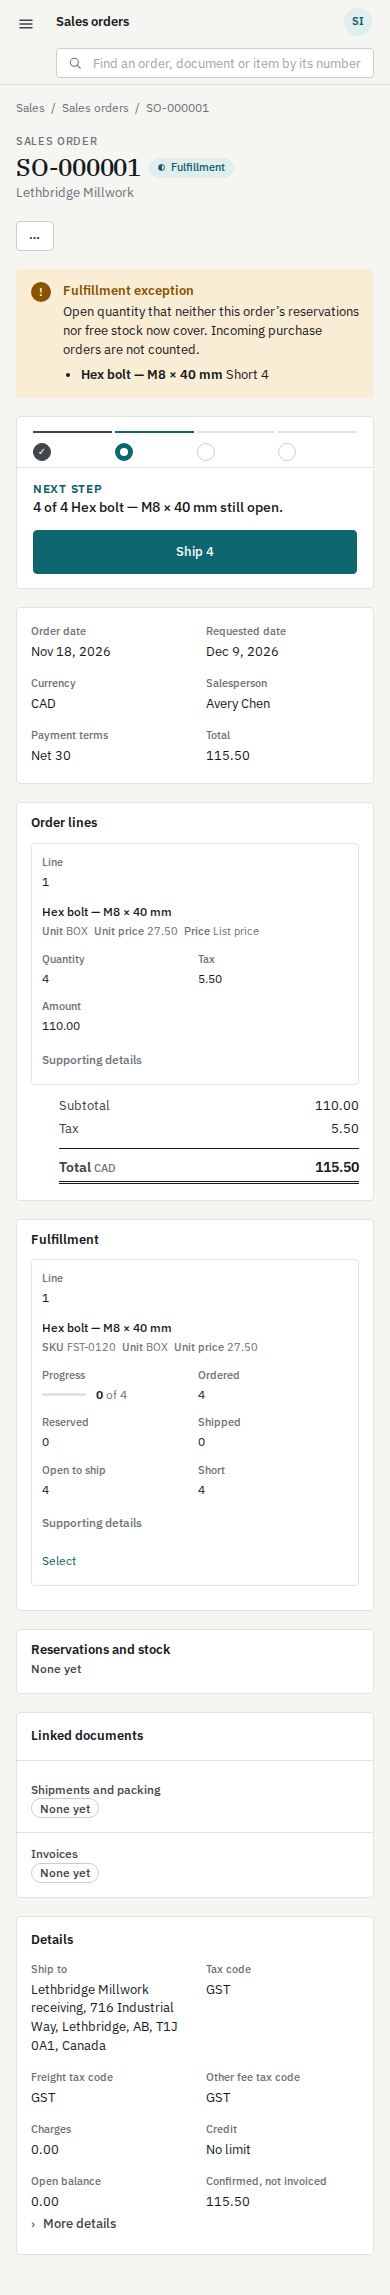
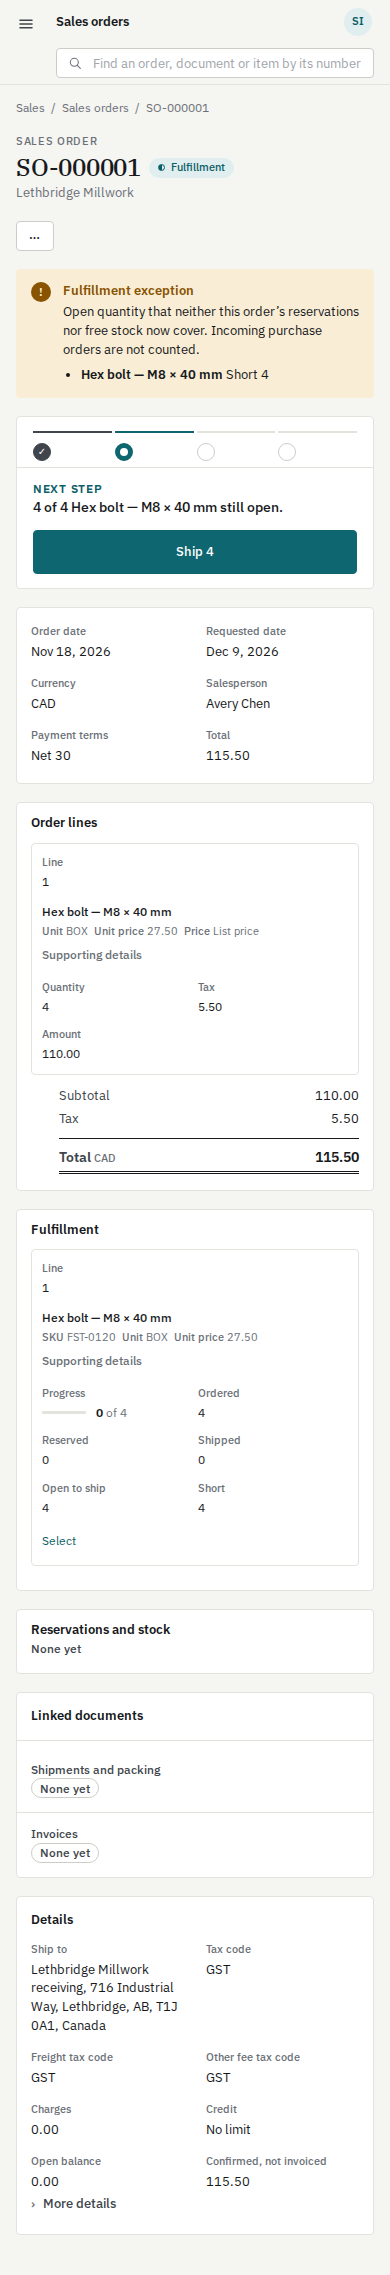
docs(execution): LOOK-1 round 4 integrated — record, ledger and review-log rows, evidence
Round 4 merged at b83f1773 (packet tip bfd95051); 28 app screenshots
re-shot from that run's look-evidence artifact (the phone Receive shot is
full height); the 28 mockup shots are unchanged.

Packet: LOOK-1

diff --git a/docs/execution/packets/LOOK-1.md b/docs/execution/packets/LOOK-1.md
@@ -1,32 +1,33 @@
 # LOOK-1 — every screen in the Ledger look the owner chose
 
-Status: round 3 frozen at `bfae71f0` (CI green, run 44325476363). Mechanical (no Critical path). Round 3 answers Fable
-review 1 (`2rain-missions/look-1-fable-review-1.md`), merged in groups: (a) `fb3f95ee`, (b) `eed94293`, (c)–(e) together
-(ruled: they share render files; the deviation from one merge per group is accepted). Earlier rounds: round 2 `d0d3baf7`,
-round 1 `5d07856a` (their records: this file at `c3ab7ab1` and `51b99470`). Claim base: main `1156974b`, merged in.
+Status: round 4 frozen at `bfd95051` (CI green, run 44342652700). Mechanical (no Critical path). Round 4 answers Fable
+review 2 (`2rain-missions/look-1-fable-review-2.md`): one blocker, three majors, the cheap leftovers. Round 3 (Fable
+review 1) merged in groups (a) `fb3f95ee`, (b) `eed94293`, (c)–(e) `e7a284f4` (one merge, ruled); its record is this
+file at `b6098500`. Earlier: round 2 `d0d3baf7`, round 1 `5d07856a`. Claim base: main `f76da787`, merged in.
 
-## Round 3 claims
+## Round 4 claims
 
-1. (a) Chrome: the top bar is the search and an initials avatar whose menu holds the principal, the demo's person
-   switch and Diagnostics; the sidebar's head is the page's company (the same Company links); queues and areas scroll
-   between a fixed head and a foot naming the person and role; one Settings disclosure holds the groups' occasional
-   destinations; a record's identity and revision live in its "…" or Record actions menu. Queue counts on every page
-   are SPEED-1's (PR #72), styled once. The proof refuses raw ids anywhere on the page.
-2. (b) Stock: optional List key `compact: 'scrollTable'` keeps a table scrolling in its panel on a phone; declared
-   Lists name themselves once, count plainly, keep a one-line toolbar, read zeros faint (`data-zero`), badge only
-   exceptions.
-3. (c) Record bodies: the badge names the stepper's current step from the declared progression (the SO's first step
-   is "Draft"); one Linked documents panel; one document sheet; Details lists what the record holds (eight, the rest
-   under More details); empty charge rows hidden; `print.currency` reads "Total CAD"; PO lines' three-way match in
-   their details; breadcrumbs area / List / record; Record actions is "…"; generic records: serif title, badge beside
-   it, revision for screen readers, Edit secondary, one Details heading.
-4. (d) Receive: rows start with what is open (the declared fill, at open); header fields three to a row; the declared
-   consequence as "After you post"; Cancel beside the one primary; the review step stays (contract). New PO: eyebrow and
-   serif title, neutral Draft badge, a line's discount and tax behind its More (`disclosure: 'more'` on line fields),
-   × to remove, one primary "Save draft" (ruling).
-5. (e) Today: no find box (searched from the top bar, on a phone too), tile icons, a centred line under the tiles.
+1. N1 Receive: a Task filling its rows from one declared column shows that column (Open) as its figure; the line's
+   other figures and its derived unit stay in the markup out of view; Item keeps 220px on one line. The grid reads
+   Item · Open · Quantity · Unit cost.
+2. N2 a record's title keeps the gutter at 390, its badge beside or just under it.
+3. N3 a page with no company of its own (a tenant's record type, a shared record) keeps the company the day's work is
+   in, resolved by the landing launcher's declared entry: the sidebar's head, its links and its queues stay in it.
+4. N4 the editor's own header: eyebrow, "New purchase order" in the document face, the neutral Draft badge beside it;
+   a form's trail ends "New" (or "Edit").
+5. Leftovers: a line's supporting details sit in its product cell (no Details column); an empty dataset of the sheet
+   shows nothing; More and × align; the dialog's resume panel stays out while it is open; the segmented control sizes
+   to its content; the phone Receive shot is full height.
+
+## Round 3 (summary)
+
+Chrome (account menu, company head, one Settings, raw ids refused); Stock (`compact: 'scrollTable'`); record bodies
+(badge = the stepper's step, one sheet, Linked documents, `print.currency`, area / List / record trail); Receive
+prefilled with "After you post"; new PO line More and "Save draft"; Today searched from the top bar.
 
 ## Decisions
+
+- Round 4: columns are hidden by declared role (the fill column, derived inputs), never by label; the company comes from a declared entry, never a hand list.
 
 - The badge and stepper agree by construction: the badge reads the progression's current step, its last when all are
   complete, the record's state when no step applies (cancelled). A closed PO with goods to bill reads "Billing".
@@ -34,11 +35,10 @@ round 1 `5d07856a` (their records: this file at `c3ab7ab1` and `51b99470`). Clai
 - PO lines keep Ordered and Received (line progress names two quantity columns) and Line (it names the receive input).
 - New optional keys: List `compact`, `print.currency`; each with compiler accept/refuse tests, coverage re-derived,
   release re-baselined (pre-tenant, ADR-0066).
-- A sortable heading's screen-reader text is contained by its scrolling table (it widened the phone page).
 
 ## Gates
 
-CI run 44325476363 green at `bfae71f0` (every job, the proof). Local: format, lint, scoped typecheck, touched unit tests,
+CI run 44342652700 green at `bfd95051` (every job, the proof). Local: format, lint, scoped typecheck, touched unit tests,
 the web contract and integration files, `check:app-release`. Shots: `docs/execution/evidence/look-1/` (56, from the run).
 
 ## Test it yourself
@@ -59,17 +59,12 @@ CAD" under the lines; Receive opens with the open quantities filled; New purchas
 ```record-claim
 {
   "schemaVersion": "northstar.record-claim/v1", "packet": "LOOK-1",
-  "base": "1156974be082eca82ecb05135036c588502a8306", "head": "bfae71f09c22a6c84e50f1a20857a5729c4789aa",
+  "base": "f76da787fb684b010ea671d713b2b924d440d664", "head": "bfd95051ccbd9580d5fdc56998a21e0c34c1ab60",
   "changedPaths": [
-    "apps/web/release/app.authored.json", "apps/web/release/app.compiled.json", "apps/web/src/component-registry.ts", "apps/web/src/document-editor.ts", "apps/web/src/ledger-styles.ts", "apps/web/src/navigation-icons.ts", "apps/web/src/surface-composition.ts", "apps/web/src/surface-launcher.ts",
-    "apps/web/src/surface-runtime.ts", "apps/web/test/browser/composed-application.spec.ts", "apps/web/test/browser/customer-defaults.spec.ts", "apps/web/test/browser/inventory-documents.spec.ts", "apps/web/test/browser/inventory-warehouse-mode.spec.ts", "apps/web/test/browser/look.composed-application.spec.ts", "apps/web/test/browser/loop-scorecard.ts", "apps/web/test/browser/message-catalog.spec.ts",
-    "apps/web/test/browser/meta-sales.spec.ts", "apps/web/test/browser/order-entry.spec.ts", "apps/web/test/browser/order-pages.spec.ts", "apps/web/test/browser/order-pricing.spec.ts", "apps/web/test/browser/payables.spec.ts", "apps/web/test/browser/price-list-pricing.spec.ts", "apps/web/test/browser/purchase-approvals.spec.ts", "apps/web/test/browser/purchase-pricing.spec.ts",
-    "apps/web/test/browser/receivables-counter-sale.spec.ts", "apps/web/test/browser/receiving.composed-application.spec.ts", "apps/web/test/browser/sale-fulfillment.composed-application.spec.ts", "apps/web/test/browser/sales-order.composed-application.spec.ts", "apps/web/test/browser/surface-data-binding.spec.ts", "packages/canonical-model/src/schemas.ts", "packages/canonical-model/src/surface-composition.ts", "packages/domain/src/app/order-entry.ts",
-    "packages/domain/src/app/today.ts", "packages/domain/src/purchasing/workspace.ts", "packages/domain/src/sales/workspace.ts", "test/fixtures/g2/language-conformance/coverage-decisions.json", "test/integration/surface-data-binding.test.ts", "test/unit/canonical-model/surface-composition.test.ts", "test/unit/workspace-contract.test.ts"
+    "apps/web/src/component-registry.ts", "apps/web/src/document-editor.ts", "apps/web/src/ledger-styles.ts", "apps/web/src/surface-composition.ts", "apps/web/src/surface-runtime.ts", "apps/web/test/browser/look.composed-application.spec.ts", "apps/web/test/browser/payables.spec.ts", "apps/web/test/browser/sales-order.composed-application.spec.ts"
   ],
   "symbols": [
-    {"path": "apps/web/src/surface-composition.ts", "name": "badgeStep"}, {"path": "apps/web/src/surface-composition.ts", "name": "prefilledRows"},
-    {"path": "apps/web/src/navigation-icons.ts", "name": "declaredIcon"}, {"path": "apps/web/src/component-registry.ts", "name": "navigationGroupLabel"}
+    {"path": "apps/web/src/surface-runtime.ts", "name": "landingCompanyContext"}, {"path": "apps/web/src/component-registry.ts", "name": "renderBreadcrumb"}
   ]
 }
 ```

diff --git a/docs/execution/ledger.md b/docs/execution/ledger.md
@@ -218,4 +218,4 @@ before any become `admitted`.
 | SPEED-1 (security fix round) | The adjudicated findings of two reviews of slices 2-4: invocations outside any page snapshot so every write-path decision is live (S1); a task step under a policy change is re-sent by GET with its commit intact (S2); moving a policy row bumps both scopes' epochs (migration 0030, S3); one tenant and environment per page (S4); an aggregate anchor written only under its live epoch (S5); denials recorded after the reads (S6); the editor finishes its reads outside its catch (S7); a transaction of its own takes the page's turn, one connection per request (S8); a loading release awaited outside the snapshot (S9); plus the reviews' test gaps. Confirm 16 -> 21 transactions (live decisions) | the speed packet | Critical (migration 0030, epoch trigger) | **integrated 2026-11-18 at `ab5ab5e2fa4d31ccd5a312112c2fd5de7850e518`; review-log `merged — unread`** | packet tip `5839d9c4`; CI run 44253708314 green | [packet](packets/SPEED-1.md). |
 | SPEED-1 (fix read and queue counts) | The fix read of `071c7796..ab5ab5e2`: denials committed on their own evidence pool before the answer, an unrecorded one failing the page (S6, read 1); the aggregate anchor holds `lock_current_policy_epoch` FOR SHARE to commit (S5, read 2, migration 0031); a Confirm under a policy change answers 409 with the session's own retry (S2, read 3); invocations and cold release routes resolved outside the page's turn (S8/S9, read 4); moved policy rows bump both epochs in canonical order (S3, read 5, 0031); each test red on the reverted code. Queue counts: Today's first three tiles counted in every page's snapshot, shown by LOOK-1's work queues; a snapshot sends an identical statement once (PO list 2 and SO detail 5 repeats to 0); +5 statements a page, no transaction | the speed packet | Critical (migration 0031: ordered epoch bumps, `lock_current_policy_epoch`) | **integrated 2026-11-18 at `e37c126e9e83b125397e5a51108b057fd9215293`; review-log `merged — unread`** | packet tip `86763ae3`; CI run 44305308130 green | [packet](packets/SPEED-1.md). |
 | SPEED-1 (final slice) | The orchestrator's rulings on the open items: queue counts on task-step pages too, read in the step's snapshot after the step (task open/review 2 / 41, Confirm 21 / 292); a queue the person may not open is left out after the gateway's non-recording eligibility check on every query its count reads, so no denial row per page view and no page fails over its queues (Today and the sidebar; the Warehouse keeps the tile, uncounted); ADR-0071 amended: the read snapshot covers one read-only request, a GET or a task step, on three conditions (READ ONLY, writes only through live invocations, the end-of-request epoch check on every step); the record header names 0030/0031 as Critical | the speed packet | Request security path (ADR-0071 amendment); no Critical path | **integrated 2026-11-18 at `e4d3c3aa9abf61891de08628ce2ac499b452a97d`; review-log `merged — no Critical path`** | packet tip `cc22cb3b`; CI run 44329884456 green | [packet](packets/SPEED-1.md). |
-| LOOK-1 | Every generated screen in the Ledger look the owner chose (ledger-spec.md): spec tokens light/dark and compact/comfortable, Plex type; the shell with work queues above the area groups, declared icons (a closed set of twenty on module, destination and tile) and a phone menu drawer; record pages with the serif number, stepper, next-step card (one primary, a sentence from the record's figures), facts grid, per-line progress from a declared `presentation.progress`, totals; lists with numbers right; the create form; plain names for the setup lists. Proof: seven mockup screens at 1440/390, light/dark, from the seed with Equipment added through Customize Round 2 (polish to mockup parity): one PO lines table, Record actions, figure buttons, one current step, coloured badges, a declared right rail; More details and date-only order dates on forms; finished tenant record pages; the Custom group declared by customization; sidebar without a repeated Today, an "Other" for occasional destinations; Foothills Industrial Supply in the seed. | phase 2 of the loop plan | Mechanical (renderer, definition, two optional language keys; no Critical path) | **round 3 integrated 2026-11-18: (a) `fb3f95ee`, (b) `eed94293`, (c)–(e) at `e7a284f4cc1ea843e6fd365b9a532d42a7272336`** (round 2 `d0d3baf7`, round 1 `5d07856a`); review-log `merged — no Critical path` | round 3 packet tip `bfae71f0`; CI run 44325476363 green | [packet](packets/LOOK-1.md); screenshots `evidence/look-1/`. |
+| LOOK-1 | Every generated screen in the Ledger look the owner chose (ledger-spec.md): spec tokens light/dark and compact/comfortable, Plex type; the shell with work queues above the area groups, declared icons (a closed set of twenty on module, destination and tile) and a phone menu drawer; record pages with the serif number, stepper, next-step card (one primary, a sentence from the record's figures), facts grid, per-line progress from a declared `presentation.progress`, totals; lists with numbers right; the create form; plain names for the setup lists. Proof: seven mockup screens at 1440/390, light/dark, from the seed with Equipment added through Customize Round 2 (polish to mockup parity): one PO lines table, Record actions, figure buttons, one current step, coloured badges, a declared right rail; More details and date-only order dates on forms; finished tenant record pages; the Custom group declared by customization; sidebar without a repeated Today, an "Other" for occasional destinations; Foothills Industrial Supply in the seed. | phase 2 of the loop plan | Mechanical (renderer, definition, two optional language keys; no Critical path) | **round 4 integrated 2026-11-18 at `b83f1773eaab04aed8c14a25b246d9c7581c26d1`** (round 3 `e7a284f4`, round 2 `d0d3baf7`, round 1 `5d07856a`); review-log `merged — no Critical path` | round 4 packet tip `bfd95051`; CI run 44342652700 green | [packet](packets/LOOK-1.md); screenshots `evidence/look-1/`. |

diff --git a/docs/execution/review-log.md b/docs/execution/review-log.md
@@ -217,3 +217,4 @@ one line per round; the gate only requires that the SHA on `main` appears.
 | `fb3f95ee3e8eaa67500f848847418b46dedf1210` | LOOK-1 | integration | MERGED — no Critical path | 2026-11-18 | Round 3 group (a), chrome and sidebar (Fable review 1 items 3, 12), PR #74, `--no-ff`, packet tip `7d534458` second parent; CI green at the tip (run 44297004206, attempt 2 after runner-speed timeouts). Shell markup and styles only (`surface-runtime.ts`, `component-registry.ts`, `ledger-styles.ts`) and their spec pins. |
 | `eed94293b1ebbf218436737fcf370829e23eceb8` | LOOK-1 | integration | MERGED — no Critical path | 2026-11-18 | Round 3 group (b), Stock (Fable review 1 items 1, 5), PR #75, `--no-ff`, packet tip `2d29820e` second parent; CI green at the tip (run 44312490924). Optional List key `compact: 'scrollTable'` with compiler accept/refuse test, coverage decisions re-derived, release re-baselined; declared List markup and styles. |
 | `e7a284f4cc1ea843e6fd365b9a532d42a7272336` | LOOK-1 | integration | MERGED — no Critical path | 2026-11-18 | Round 3 groups (c), (d), (e) together (ruled), record bodies, Receive and new PO, Home (Fable review 1 items 2, 4, 6-11, 13-15), PR #76, `--no-ff`, packet tip `bfae71f0` second parent; CI green at the tip (run 44325476363). Renderer, styles, first-party declarations (PO lines, SO step, line disclosure, Today slots), optional `print.currency` key with compiler accept/refuse test, coverage re-derived, release re-baselined; 28 app screenshots re-shot. |
+| `b83f1773eaab04aed8c14a25b246d9c7581c26d1` | LOOK-1 | integration | MERGED — no Critical path | 2026-11-18 | Round 4 (Fable review 2: N1 Receive grid, N2 record header at 390, N3 company on unscoped pages, N4 new-PO header, leftovers), PR #78, `--no-ff`, packet tip `bfd95051` second parent; CI green at the tip (run 44342652700). Renderer and styles only (`surface-composition.ts`, `component-registry.ts`, `document-editor.ts`, `surface-runtime.ts`, `ledger-styles.ts`) and spec pins; 28 app screenshots re-shot. |
